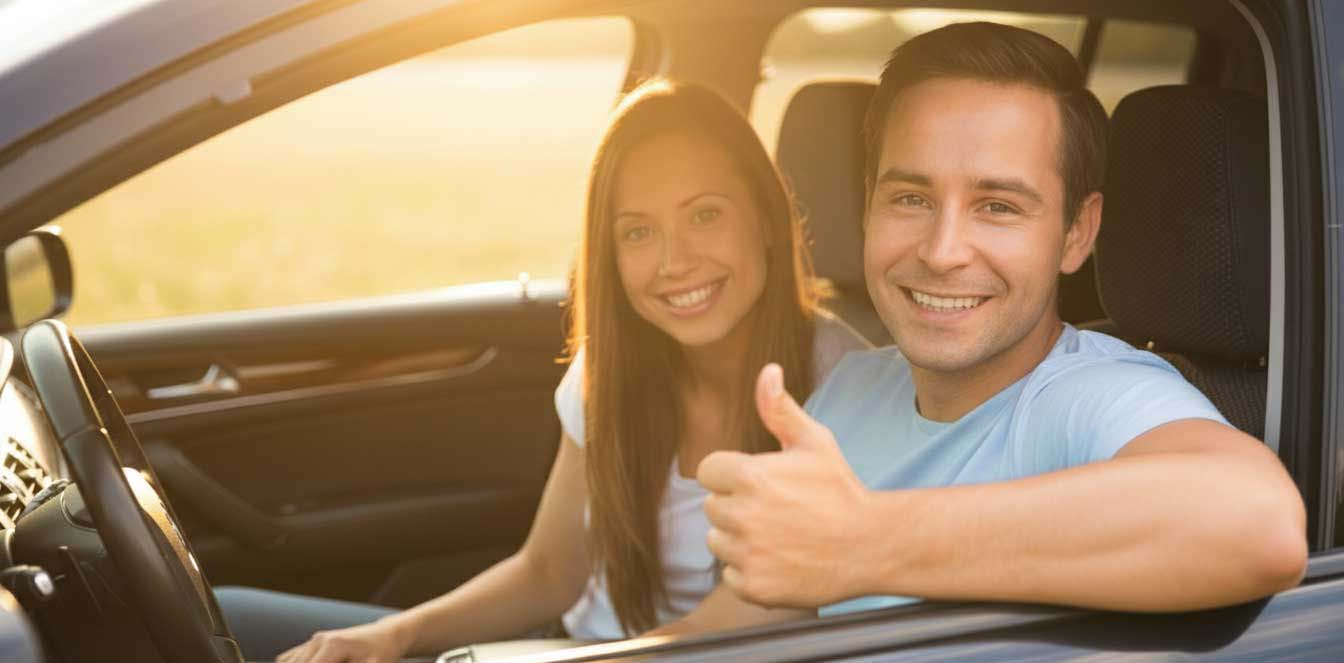
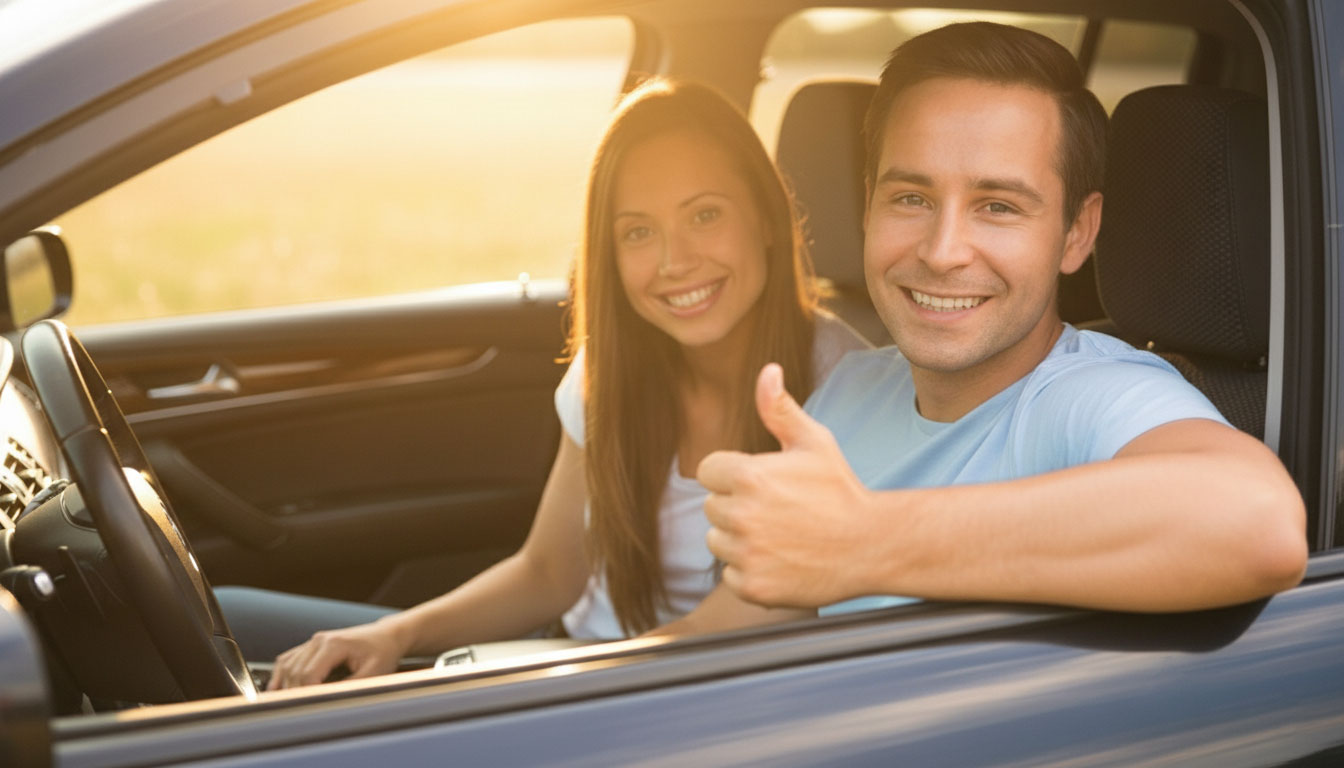
Changed pictures and added a new one, also changed the text and the colors of the website to make it more appealing and modern. The new picture is an alternative to the original one, which is more colorful and vibrant, while the original one is more simple and minimalistic. The text has been changed

diff --git a/index.html b/index.html
@@ -533,7 +533,8 @@
                     </div>
                     <h3 class="text-2xl font-bold text-dark leading-tight">
                       Cambio de Aceite
-                      <span class="copper-text">Total Quartz</span>
+                      <span  scale(1.28)`;Total Quartz</span
+                      >
                     </h3>
                     <p class="mt-3 text-gray-400 max-w-prose">
                       Cambio rápido con aceite Total Quartz para máxima
@@ -901,7 +902,7 @@
           <div class="about-image-label">
             <span class="about-eyebrow">Quiénes Somos</span>
             <p class="about-image-caption">
-              Tu taller de confianza, con estándar premium
+              Tu taller de <span class="copper-text">confianza</span>, con estándar premium
             </p>
           </div>
         </div>

diff --git a/scripts.js b/scripts.js
@@ -60,8 +60,8 @@ function updateAboutParallax() {
     const totalTravel = window.innerHeight + rect.height;
     const scrolled = window.innerHeight - rect.top;
     const progress = scrolled / totalTravel; // 0 → 1 as section scrolls through
-    const shift = (progress - 0.5) * 300; // ±150px at extremes
-    aboutParallaxImg.style.transform = `translateY(${shift}px) scale(1.28)`;
+    const shift = (progress - 0.5) * 280; // ±140px at extremes
+    aboutParallaxImg.style.transform = `translateY(${shift}px) scale(1.10)`;
 }
 
 window.addEventListener("scroll", () => {

diff --git a/styles.css b/styles.css
@@ -1448,7 +1448,7 @@ ul li a.text-gray-300:hover {
   width: 100%;
   height: 100%;
   object-fit: cover;
-  object-position: center 30%;
+  object-position: center 20%;
   transform: translateY(0) scale(1.12);
   will-change: transform;
 }
